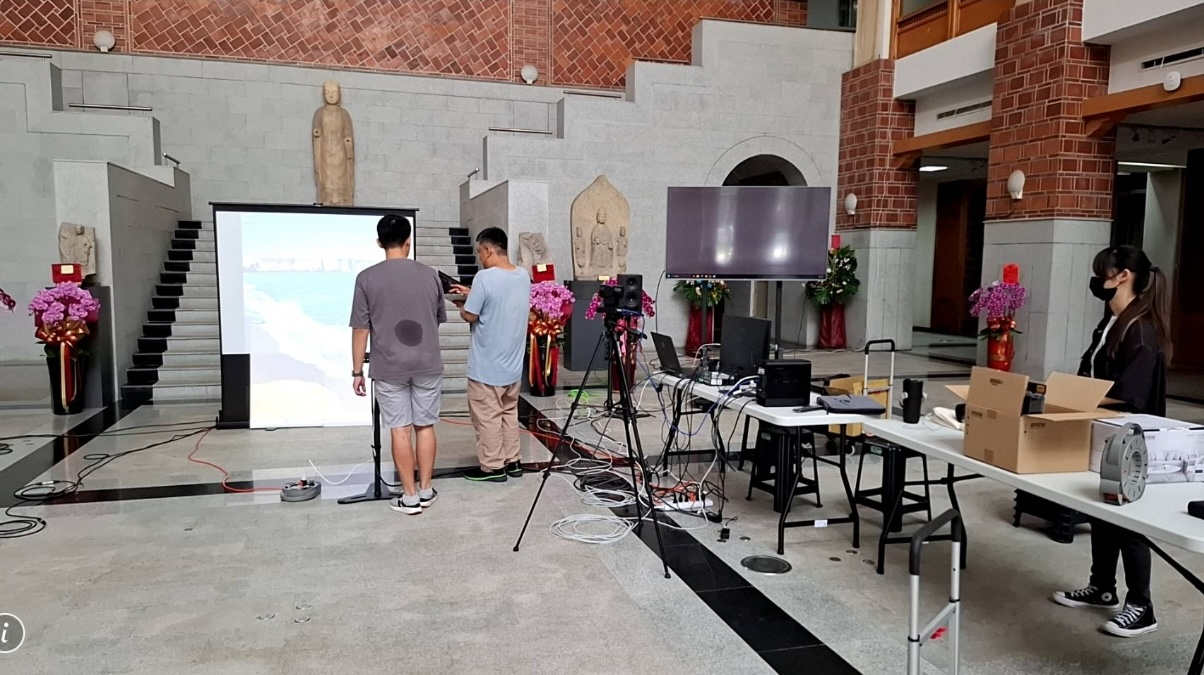
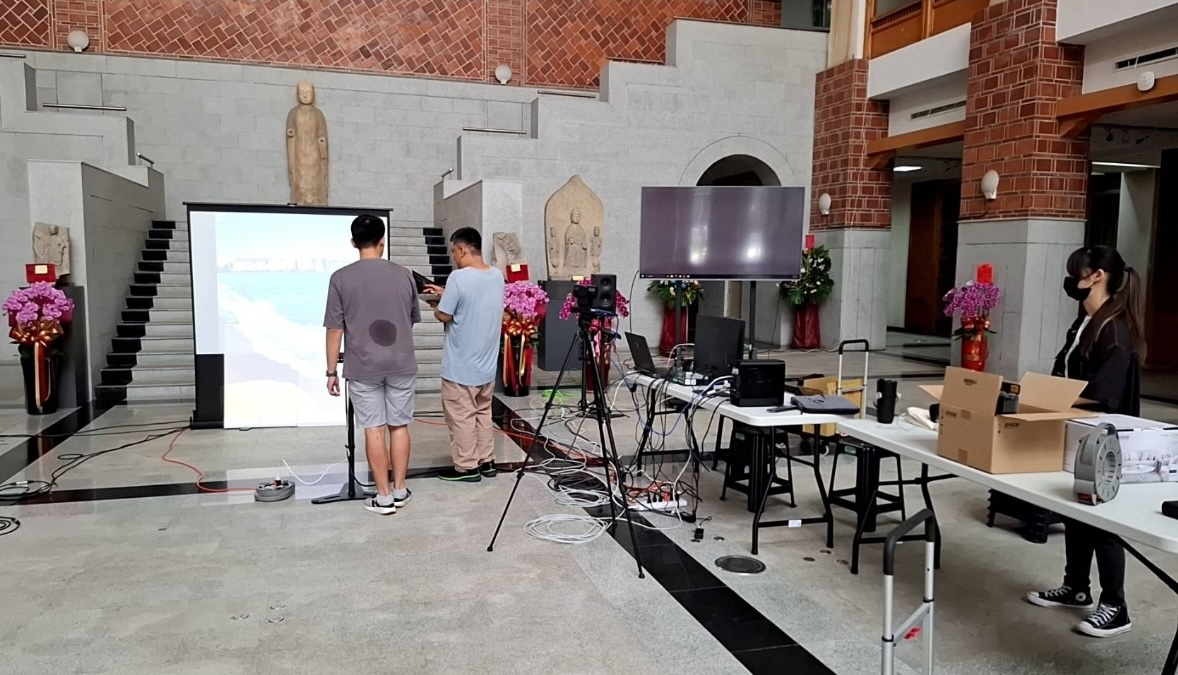
update portfolio

diff --git a/cases/virtual-principal.html b/cases/virtual-principal.html
@@ -59,7 +59,7 @@
             </div>
         </header>
 
-        <div class="case-window-frame">
+        <div class="case-window-frame case-figure-portrait">
             <div class="case-window-titlebar">
                 <div class="case-window-dots">
                     <span class="case-window-dot dot-close"></span>
@@ -70,7 +70,8 @@
             </div>
             <div class="case-window-viewport">
                 <img src="../assets/system_integration/ar-llm-principal.jpg"
-                    alt="RAG-Integrated Multimodal AI Real-Time Virtual Principal Interface">
+                    alt="RAG-Integrated Multimodal AI Real-Time Virtual Principal Interface"
+                    width="1059" height="1854" loading="lazy">
             </div>
         </div>
 
@@ -157,6 +158,84 @@
                         </span>
                     </div>
                 </div>
+            </div>
+        </section>
+
+        <section class="case-section">
+            <h2 class="case-section-title">Deployment Setup and On-Site Debugging</h2>
+            <div class="case-body">
+                <figure class="case-figure">
+                    <img src="../assets/system_integration/preparing-multimodal-llm-virtual-principal-setup.jpg"
+                        alt="Preparing the multimodal LLM virtual principal kiosk setup in the university lobby"
+                        width="903" height="675" loading="lazy">
+                    <figcaption>Preparing the kiosk and inference terminal in the university lobby before the showcase</figcaption>
+                </figure>
+                <div class="case-gallery-2col case-gallery-portrait">
+                    <figure class="case-figure">
+                        <img src="../assets/system_integration/virtual-principal-full-setup.jpg"
+                            alt="Full virtual principal kiosk setup with microphone, webcam, and audio mixer during live demo"
+                            width="719" height="956" loading="lazy">
+                        <figcaption>Live demo: full kiosk with microphone, webcam, and audio mixer</figcaption>
+                    </figure>
+                    <figure class="case-figure">
+                        <img src="../assets/system_integration/debugging-interactive-virtual-principal.jpg"
+                            alt="Terminal showing live Whisper ASR inference logs, RAG response text, and TTS error traces during on-site debugging"
+                            width="719" height="955" loading="lazy">
+                        <figcaption>On-site debugging: live inference logs, RAG responses, and TTS error traces</figcaption>
+                    </figure>
+                </div>
+            </div>
+        </section>
+
+        <section class="case-section">
+            <h2 class="case-section-title">Pipeline Engineering Challenges</h2>
+            <div class="case-body">
+                <p>
+                    Beyond the perceived latency problem, every stage of the inference pipeline required independent
+                    investigation and tuning. The system chained six sequential processes, each introducing its own
+                    accuracy and latency trade-offs.
+                </p>
+
+                <ul>
+                    <li>
+                        <strong>Microphone Audio Input Quality:</strong> The kiosk deployed in an open university lobby
+                        with ambient crowd noise and echo from marble surfaces. Microphone placement, gain staging,
+                        and noise floor directly affected downstream ASR accuracy. We tested different microphone
+                        positions and pickup patterns to maximize signal-to-noise ratio at the kiosk.
+                    </li>
+                    <li>
+                        <strong>ASR Model Selection and Speech Cutoff Timing:</strong> We evaluated multiple ASR models
+                        for Mandarin accuracy on consumer-grade audio input. The final choice was Whisper medium,
+                        balancing transcription quality against inference speed on local GPU. A critical sub-problem was
+                        speech endpoint detection: when to cut off the audio stream and send the transcript forward. If
+                        the cutoff triggered too early, the sentence was incomplete and the LLM received a fragment. If
+                        it waited too long, it added unnecessary latency to every turn. We tuned the energy threshold and
+                        silence duration to find the minimum reliable pause.
+                    </li>
+                    <li>
+                        <strong>RAG Retrieval and Similarity Threshold Tuning:</strong> Teachers from different
+                        departments provided question-and-answer pairs as the knowledge base. I worked with the
+                        engineering team from Taipei to build the RAG system using RAGFlow with the bge-m3 vector
+                        embedding model. We tested the cosine similarity filter threshold extensively. The sweet spot
+                        was 0.3: setting the threshold too low increased hallucination because irrelevant passages
+                        passed through to the LLM context. Setting it too high filtered out genuinely useful content
+                        and returned no matches, leaving the LLM without grounding.
+                    </li>
+                    <li>
+                        <strong>Per-Step Latency Profiling:</strong> To reduce end-to-end latency, we profiled every
+                        stage independently: microphone input to Whisper ASR, ASR output to the bge-m3 embedding model,
+                        vector search and reranking, LLM generation, and Fish-Speech TTS synthesis. Each stage had its
+                        own compute cost and queuing overhead. Reducing total turn time required identifying which stages
+                        dominated the budget and whether any could overlap or stream.
+                    </li>
+                    <li>
+                        <strong>Traditional Chinese Rendering:</strong> The deployment workstation ran Windows with
+                        Traditional Chinese locale (cp950/Big5). Third-party model outputs and library strings sometimes
+                        contained Simplified Chinese characters that could not be encoded by the system console, causing
+                        crashes in the TTS module. We traced each encoding error to its source and ensured all
+                        user-facing text rendered in Traditional Chinese.
+                    </li>
+                </ul>
             </div>
         </section>
 
